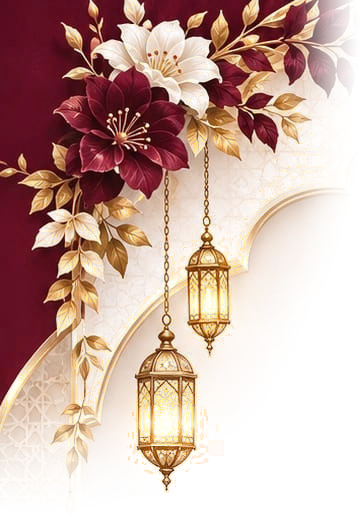
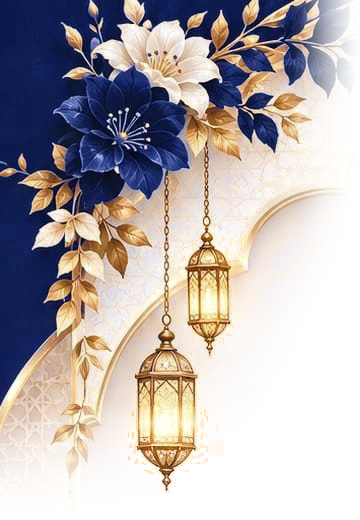
Groom side: royal velvet blue theme, remove Haldi and closing mosque

Changed region(s): [[0.0, 0.0, 0.9472, 0.7692], [0.2139, 0.5846, 0.2444, 0.6154]]

diff --git a/mehtab/css/style.css b/mehtab/css/style.css
@@ -5,11 +5,11 @@
   --paper: #fdf3e7;
   --paper-2: #f7e9d6;
   --paper-3: #efdcc2;
-  --maroon: #7b1a2c;
-  --maroon-2: #5e1122;
-  --maroon-3: #460a18;
-  --ink: #4a2c22;
-  --ink-2: #6e4b3b;
+  --royal: #1f2f7a;
+  --royal-2: #172463;
+  --royal-3: #0f1a4a;
+  --ink: #262c4d;
+  --ink-2: #4c5374;
   --gold: #b98d45;
   --gold-d: #8f6a2e;
   --gold-l: #ead39c;
@@ -40,8 +40,8 @@ button { font: inherit; }
 .opener {
   position: fixed; inset: 0; z-index: 60; overflow: hidden;
   background:
-    radial-gradient(70% 45% at 50% 46%, rgba(180, 60, 80, .35), transparent 70%),
-    radial-gradient(130% 90% at 50% 40%, #7a1a2c, #520e1d 55%, #2e0610);
+    radial-gradient(70% 45% at 50% 46%, rgba(70, 100, 200, .35), transparent 70%),
+    radial-gradient(130% 90% at 50% 40%, #1e2e78, #131f58 55%, #080f33);
   color: var(--cream);
   transition: opacity .9s ease .1s;
 }
@@ -100,13 +100,13 @@ button { font: inherit; }
 .scroll__border { position: absolute; inset: 16px 14px; border: 1px solid rgba(185, 141, 69, .55); outline: 1px solid rgba(185, 141, 69, .3); outline-offset: 4px; }
 .scroll__ribbon {
   position: absolute; z-index: 3; left: 50%; top: -4px; width: 30px; height: 80px; transform: translateX(-50%);
-  background: linear-gradient(90deg, #5a0f1f, #9a2a40 40%, #b2374f 55%, #6e1426);
+  background: linear-gradient(90deg, #14225c, #2d44a0 40%, #4560c0 55%, #1b2b70);
   box-shadow: 0 2px 6px rgba(0, 0, 0, .35);
   transition: transform .6s ease, opacity .5s ease;
 }
 .scroll__ribbon::before, .scroll__ribbon::after {
   content: ""; position: absolute; top: 74px; width: 16px; height: 46px;
-  background: linear-gradient(180deg, #8c2338, #5a0f1f);
+  background: linear-gradient(180deg, #2a3f96, #14225c);
   clip-path: polygon(0 0, 100% 0, 100% 100%, 50% 84%, 0 100%);
 }
 .scroll__ribbon::before { left: -6px; transform: rotate(14deg); transform-origin: top; }
@@ -116,8 +116,8 @@ button { font: inherit; }
   position: absolute; z-index: 4; left: 50%; top: 50%; width: 96px; height: 96px; padding: 0;
   transform: translate(-50%, -50%);
   border: 0; border-radius: 50%; cursor: pointer;
-  background: radial-gradient(circle at 34% 28%, #a93349, #721628 58%, #4a0a17);
-  box-shadow: 0 8px 18px rgba(0, 0, 0, .45), inset 0 0 0 3px rgba(233, 207, 147, .55), inset 0 0 0 7px #6a1426, inset 0 0 0 8px rgba(233, 207, 147, .35), inset 0 -6px 14px rgba(0, 0, 0, .35);
+  background: radial-gradient(circle at 34% 28%, #3a52b0, #1c2c72 58%, #0e184a);
+  box-shadow: 0 8px 18px rgba(0, 0, 0, .45), inset 0 0 0 3px rgba(233, 207, 147, .55), inset 0 0 0 7px #1a2a6e, inset 0 0 0 8px rgba(233, 207, 147, .35), inset 0 -6px 14px rgba(0, 0, 0, .35);
   transition: transform .6s cubic-bezier(.3, 1.4, .5, 1), opacity .5s ease;
   -webkit-tap-highlight-color: transparent;
 }
@@ -157,7 +157,7 @@ main {
 .page-rod::before, .page-rod::after { content: ""; position: absolute; top: 50%; width: 12px; height: 18px; border-radius: 50%; transform: translateY(-50%); background: radial-gradient(circle at 40% 35%, #fbe8b8, #c99a4a 55%, #7a5520); }
 .page-rod::before { left: -6px; } .page-rod::after { right: -6px; }
 @media (min-width: 600px) {
-  body { background: radial-gradient(120% 80% at 50% 0%, #6a1426, #3a0812 70%); }
+  body { background: radial-gradient(120% 80% at 50% 0%, #1a2a6e, #0a1236 70%); }
   main { box-shadow: 0 0 0 1px rgba(233, 207, 147, .25), 0 30px 80px rgba(0, 0, 0, .5); }
 }
 
@@ -171,7 +171,7 @@ main {
 
 /* ---------- headings ---------- */
 .kicker { margin: 0 0 8px; font-family: var(--ff-caps); font-size: 11.5px; letter-spacing: .32em; text-transform: uppercase; color: var(--gold-d); }
-.sec__title { margin: 0; font-weight: 600; font-size: 30px; line-height: 1.2; color: var(--maroon); }
+.sec__title { margin: 0; font-weight: 600; font-size: 30px; line-height: 1.2; color: var(--royal); }
 .divider { display: block; width: 210px; height: 22px; margin: 14px auto; }
 
 /* =========================================================
@@ -194,13 +194,13 @@ main {
 }
 .hero__title { margin: 4px 0 0; font-weight: 400; }
 .hero__title .script {
-  display: block; font-family: 'Alex Brush', var(--ff-script); font-size: clamp(66px, 20vw, 96px); line-height: 1; color: var(--maroon);
+  display: block; font-family: 'Alex Brush', var(--ff-script); font-size: clamp(66px, 20vw, 96px); line-height: 1; color: var(--royal);
   padding-top: .16em; margin-top: -.1em;
   text-shadow: 0 2px 0 rgba(255, 255, 255, .6);
 }
 .hero__caps { display: block; margin-top: 2px; font-family: var(--ff-caps); font-size: 15px; letter-spacing: .46em; padding-left: .46em; color: var(--ink-2); }
 .names { margin-top: 6px; }
-.nm { margin: 0; font-weight: 600; font-size: clamp(40px, 11.6vw, 54px); line-height: 1.08; color: var(--maroon); letter-spacing: .005em; }
+.nm { margin: 0; font-weight: 600; font-size: clamp(40px, 11.6vw, 54px); line-height: 1.08; color: var(--royal); letter-spacing: .005em; }
 .par { margin: 4px 0 0; font-family: var(--ff-caps); font-size: 11px; letter-spacing: .12em; text-transform: uppercase; color: var(--ink-2); }
 .amp { display: flex; align-items: center; justify-content: center; gap: 14px; margin: 14px auto 10px; max-width: 280px; }
 .amp::before, .amp::after { content: ""; flex: 1; height: 1px; background: linear-gradient(90deg, transparent, var(--gold)); }
@@ -208,7 +208,7 @@ main {
 .amp span {
   display: grid; place-items: center; width: 40px; height: 40px; flex: none;
   border: 1.2px solid var(--gold); transform: rotate(45deg); border-radius: 6px;
-  position: relative; font-size: 0; color: var(--maroon);
+  position: relative; font-size: 0; color: var(--royal);
 }
 .amp span::after { content: "&"; position: absolute; inset: 0; display: grid; place-items: center; transform: rotate(-45deg); font-family: var(--ff-serif); font-style: italic; font-weight: 500; font-size: 27px; line-height: 1; }
 
@@ -220,10 +220,10 @@ main {
 .date { position: relative; flex: 1 1 0; max-width: 140px; padding: 0 6px; }
 .date + .date { border-left: 1px solid rgba(185, 141, 69, .4); }
 .date svg { width: 30px; height: 30px; color: var(--gold); display: block; margin: 0 auto 4px; }
-.date__d { position: relative; display: inline-block; font-weight: 700; font-size: 32px; line-height: 1; color: var(--maroon); }
+.date__d { position: relative; display: inline-block; font-weight: 700; font-size: 32px; line-height: 1; color: var(--royal); }
 .date__m { display: block; margin-top: 4px; font-family: var(--ff-caps); font-size: 10px; letter-spacing: .14em; text-transform: uppercase; color: var(--ink-2); }
-.date__n { display: block; margin-top: 4px; font-family: var(--ff-caps); font-weight: 600; font-size: 11.5px; letter-spacing: .16em; text-transform: uppercase; color: var(--maroon); }
-.date__d { background: linear-gradient(120deg, #7b1a2c 30%, #b4485c 50%, #7b1a2c 70%); background-size: 250% 100%; -webkit-background-clip: text; background-clip: text; color: transparent; animation: shimmer 4s ease-in-out infinite; }
+.date__n { display: block; margin-top: 4px; font-family: var(--ff-caps); font-weight: 600; font-size: 11.5px; letter-spacing: .16em; text-transform: uppercase; color: var(--royal); }
+.date__d { background: linear-gradient(120deg, #1f2f7a 30%, #4a64c4 50%, #1f2f7a 70%); background-size: 250% 100%; -webkit-background-clip: text; background-clip: text; color: transparent; animation: shimmer 4s ease-in-out infinite; }
 @keyframes shimmer { 0%, 100% { background-position: 100% 0; } 50% { background-position: 0 0; } }
 .sparkle {
   position: absolute; width: 11px; height: 11px; pointer-events: none;
@@ -246,7 +246,7 @@ main {
   position: relative; padding: 42px 24px 34px; border-radius: 4px;
   background: linear-gradient(180deg, #fffaf3, #f8ecda);
   border: 1px solid rgba(185, 141, 69, .5);
-  box-shadow: inset 0 0 0 7px #fffaf3, inset 0 0 0 8px rgba(185, 141, 69, .3), 0 14px 30px -20px rgba(90, 40, 20, .5);
+  box-shadow: inset 0 0 0 7px #fffaf3, inset 0 0 0 8px rgba(185, 141, 69, .3), 0 14px 30px -20px rgba(30, 40, 90, .5);
 }
 .vc { position: absolute; width: 44px; height: 44px; }
 .vc--tl { top: 12px; left: 12px; }
@@ -256,7 +256,7 @@ main {
 .verse__text { margin: 10px 0 16px; font-style: italic; font-size: 21px; line-height: 1.55; color: var(--ink); }
 .verse__text .w { display: inline-block; opacity: 0; transform: translateY(6px); filter: blur(3px); transition: opacity .6s ease, transform .6s ease, filter .6s ease; transition-delay: calc(var(--i) * 55ms + 300ms); }
 .verse__text.is-in .w { opacity: 1; transform: none; filter: none; }
-.verse__ref { margin: 0; font-family: var(--ff-caps); font-size: 12px; letter-spacing: .22em; color: var(--maroon); }
+.verse__ref { margin: 0; font-family: var(--ff-caps); font-size: 12px; letter-spacing: .22em; color: var(--royal); }
 
 /* countdown */
 .arches { display: flex; justify-content: center; gap: 10px; margin-top: 24px; }
@@ -266,24 +266,24 @@ main {
   border-radius: 37px 37px 10px 10px / 34px 34px 10px 10px;
   background: linear-gradient(180deg, #fffaf1, #f4e3ca);
   border: 1px solid rgba(185, 141, 69, .65);
-  box-shadow: inset 0 0 0 4px #fffaf1, inset 0 0 0 5px rgba(185, 141, 69, .3), 0 10px 20px -14px rgba(90, 40, 20, .6);
+  box-shadow: inset 0 0 0 4px #fffaf1, inset 0 0 0 5px rgba(185, 141, 69, .3), 0 10px 20px -14px rgba(30, 40, 90, .6);
 }
-.arch__n { font-weight: 700; font-size: 33px; line-height: 1; color: var(--maroon); font-variant-numeric: tabular-nums; }
+.arch__n { font-weight: 700; font-size: 33px; line-height: 1; color: var(--royal); font-variant-numeric: tabular-nums; }
 .arch__n.tick { animation: tick .5s ease; }
 @keyframes tick { 0% { transform: translateY(-5px); opacity: .3; } 100% { transform: none; opacity: 1; } }
 .arch__l { margin-top: 6px; font-family: var(--ff-caps); font-size: 9.5px; letter-spacing: .16em; text-transform: uppercase; color: var(--ink-2); }
 .cd__msg { margin: 18px 0 0; font-style: italic; font-size: 18.5px; color: var(--ink-2); }
 
 /* functions */
-.events__title { margin: 0; font-size: 64px; line-height: 1.05; color: var(--maroon); padding-top: .12em; }
+.events__title { margin: 0; font-size: 64px; line-height: 1.05; color: var(--royal); padding-top: .12em; }
 .events__list { display: grid; gap: 58px; margin-top: 54px; }
 .ev {
   position: relative; padding: 52px 20px 26px; color: #f8ead4;
   border-radius: 50% 50% 18px 18px / 70px 70px 18px 18px;
   background:
-    radial-gradient(100% 50% at 50% 0%, rgba(190, 70, 90, .35), transparent 70%),
-    linear-gradient(180deg, #841f33, #6a1426 50%, #4e0c1b);
-  box-shadow: 0 22px 40px -24px rgba(60, 10, 20, .8), inset 0 0 0 1px rgba(233, 207, 147, .6);
+    radial-gradient(100% 50% at 50% 0%, rgba(80, 110, 210, .35), transparent 70%),
+    linear-gradient(180deg, #24378a, #1a2a6e 50%, #111d52);
+  box-shadow: 0 22px 40px -24px rgba(10, 18, 60, .8), inset 0 0 0 1px rgba(233, 207, 147, .6);
 }
 .ev::before {
   content: ""; position: absolute; inset: 8px; pointer-events: none;
@@ -294,8 +294,8 @@ main {
   position: absolute; left: 50%; top: -32px; transform: translateX(-50%);
   display: grid; place-items: center; width: 64px; height: 64px; border-radius: 50%;
   background: radial-gradient(circle at 35% 30%, #fffaf0, #f1dfc0);
-  border: 1.5px solid #c9a35c; color: var(--maroon);
-  box-shadow: 0 0 0 5px var(--paper), 0 8px 16px -6px rgba(60, 10, 20, .6);
+  border: 1.5px solid #c9a35c; color: var(--royal);
+  box-shadow: 0 0 0 5px var(--paper), 0 8px 16px -6px rgba(10, 18, 60, .6);
 }
 .ev__medal svg { width: 38px; height: 38px; }
 .ev__date { margin: 0; font-family: var(--ff-caps); font-size: 11.5px; letter-spacing: .2em; text-transform: uppercase; color: var(--gold-l); }
@@ -324,20 +324,19 @@ main {
 }
 .btn:active { transform: scale(.96); }
 .btn svg { width: 17px; height: 17px; }
-.btn--gold { color: var(--maroon-3); background: linear-gradient(120deg, #c99d52, #f1dca7 50%, #c99d52); box-shadow: 0 6px 18px -8px rgba(233, 207, 147, .6); }
+.btn--gold { color: var(--royal-3); background: linear-gradient(120deg, #c99d52, #f1dca7 50%, #c99d52); box-shadow: 0 6px 18px -8px rgba(233, 207, 147, .6); }
 .btn--ghost { color: #f3dfb4; border-color: rgba(233, 207, 147, .55); background: transparent; }
-.btn--maroon { color: #f8ead4; background: linear-gradient(120deg, #6a1426, #8c2338 50%, #6a1426); box-shadow: 0 8px 20px -10px rgba(90, 16, 32, .7); }
+.btn--royal { color: #f8ead4; background: linear-gradient(120deg, #1a2a6e, #2a3f96 50%, #1a2a6e); box-shadow: 0 8px 20px -10px rgba(16, 28, 90, .7); }
 .btn:focus-visible { outline: 2px solid var(--gold); outline-offset: 3px; }
 
 /* closing */
 .closing { padding-bottom: 0; }
 .closing__lead { margin: 0 auto 18px; max-width: 320px; font-style: italic; font-size: 22px; line-height: 1.4; color: var(--ink); }
-.closing__family { margin: 0; font-size: 68px; line-height: 1.05; color: var(--maroon); padding-top: .14em; }
+.closing__family { margin: 0; font-size: 68px; line-height: 1.05; color: var(--royal); padding-top: .14em; }
 .closing__names { margin: 10px 0 0; font-weight: 600; font-size: clamp(17px, calc((100vw - 40px) / 17), 23px); line-height: 1.6; color: var(--ink); }
 .closing__names .ln { display: block; width: max-content; max-width: none; margin: 0 auto; white-space: nowrap; }
 .closing__wish { margin: 0 0 18px; font-style: italic; font-size: 19px; color: var(--ink-2); }
-.closing__mosque { display: block; width: 100%; height: auto; margin-top: 26px; }
-.page-rod--end { margin-top: -4px; }
+.page-rod--end { margin-top: 44px; }
 .foot { padding: 16px 0 calc(28px + env(safe-area-inset-bottom)); font-family: var(--ff-caps); font-size: 11px; letter-spacing: .3em; text-transform: uppercase; color: var(--gold-d); }
 .foot span { font-family: var(--ff-script); font-size: 18px; letter-spacing: 0; text-transform: none; }
 
@@ -347,7 +346,7 @@ main {
 .petals { position: fixed; inset: 0; z-index: 40; pointer-events: none; overflow: hidden; }
 .petal {
   position: absolute; top: -30px; width: var(--s, 12px); height: calc(var(--s, 12px) * 1.25);
-  border-radius: 80% 0 80% 0; background: var(--c, #9a2a40); opacity: .75;
+  border-radius: 80% 0 80% 0; background: var(--c, #2d44a0); opacity: .75;
   animation: fall var(--dur, 12s) linear var(--delay, 0s) infinite;
 }
 @keyframes fall {
@@ -362,9 +361,9 @@ main {
 .dock {
   position: fixed; z-index: 45; left: 50%; bottom: calc(12px + env(safe-area-inset-bottom));
   display: none; gap: 2px; padding: 6px; border-radius: 999px;
-  background: rgba(78, 12, 27, .9); border: 1px solid rgba(233, 207, 147, .45);
+  background: rgba(17, 29, 82, .9); border: 1px solid rgba(233, 207, 147, .45);
   -webkit-backdrop-filter: blur(10px); backdrop-filter: blur(10px);
-  box-shadow: 0 12px 30px -10px rgba(40, 6, 14, .6);
+  box-shadow: 0 12px 30px -10px rgba(6, 10, 40, .6);
   opacity: 0; transform: translate(-50%, 30px); transition: opacity .4s ease, transform .4s ease;
 }
 @media (max-width: 760px) { .dock { display: flex; } }
@@ -380,7 +379,7 @@ main {
 .dock__btn:active { background: rgba(233, 207, 147, .16); }
 .toast {
   position: fixed; z-index: 70; left: 50%; bottom: calc(24px + env(safe-area-inset-bottom)); transform: translate(-50%, 20px);
-  padding: 9px 18px; border-radius: 999px; background: var(--maroon-2); color: #f8ead4;
+  padding: 9px 18px; border-radius: 999px; background: var(--royal-2); color: #f8ead4;
   font-family: var(--ff-caps); font-size: 12px; letter-spacing: .08em; opacity: 0; pointer-events: none; transition: opacity .3s, transform .3s;
 }
 .toast.is-on { opacity: 1; transform: translate(-50%, 0); }

diff --git a/mehtab/make-link.html b/mehtab/make-link.html
@@ -8,7 +8,7 @@
   <link rel="icon" href="../assets/img/favicon.png">
   <link href="https://fonts.googleapis.com/css2?family=Cinzel:wght@400;500&family=Cormorant+Garamond:ital,wght@0,400;0,600;1,400&family=Pinyon+Script&display=swap" rel="stylesheet">
   <style>
-    :root { --wine: #4e0c1b; --wine2: #6a1426; --gold: #b98d45; --gold2: #7b1a2c; --ivory: #4a2c22; --muted: #8a6a58; }
+    :root { --wine: #111d52; --wine2: #1a2a6e; --gold: #b98d45; --gold2: #1f2f7a; --ivory: #262c4d; --muted: #8a6a58; }
     * { box-sizing: border-box; }
     body {
       margin: 0; min-height: 100vh; padding: 32px 16px 60px;
@@ -18,7 +18,7 @@
     main { max-width: 560px; margin: 0 auto; }
     h1 { font-family: 'Pinyon Script', cursive; font-weight: 400; font-size: 54px; text-align: center; margin: 0; color: var(--gold2); }
     .sub { text-align: center; color: var(--muted); font-style: italic; margin: 0 0 28px; }
-    .card { border: 1px solid rgba(200, 167, 108, .35); border-radius: 16px; padding: 22px; background: #fffaf3; box-shadow: 0 14px 30px -20px rgba(90, 40, 20, .5); }
+    .card { border: 1px solid rgba(200, 167, 108, .35); border-radius: 16px; padding: 22px; background: #fffaf3; box-shadow: 0 14px 30px -20px rgba(30, 40, 90, .5); }
     label { display: block; font-family: Cinzel, serif; font-size: 12px; letter-spacing: .2em; text-transform: uppercase; color: var(--gold); margin: 18px 0 8px; }
     label:first-child { margin-top: 0; }
     input[type=text], textarea {
@@ -34,7 +34,7 @@
       display: block; text-align: center; padding: 12px 8px; border-radius: 10px; cursor: pointer;
       border: 1px solid rgba(200, 167, 108, .4); font-family: Cinzel, serif; font-size: 13px; letter-spacing: .08em;
     }
-    .seg input:checked + span { background: linear-gradient(120deg, #6a1426, #8c2338 50%, #6a1426); color: #f8ead4; border-color: transparent; }
+    .seg input:checked + span { background: linear-gradient(120deg, #1a2a6e, #2a3f96 50%, #1a2a6e); color: #f8ead4; border-color: transparent; }
     .seg input:focus-visible + span { outline: 2px solid var(--gold2); outline-offset: 2px; }
     .out { word-break: break-all; padding: 12px 14px; border-radius: 10px; background: #fff; border: 1px dashed rgba(200, 167, 108, .45); font-family: ui-monospace, Menlo, monospace; font-size: 14px; color: var(--gold2); }
     .row { display: flex; flex-wrap: wrap; gap: 10px; margin-top: 16px; }
@@ -43,7 +43,7 @@
       border-radius: 999px; border: 1px solid rgba(200, 167, 108, .55); background: transparent;
       color: var(--gold2); font-family: Cinzel, serif; font-size: 12.5px; letter-spacing: .12em; text-transform: uppercase; cursor: pointer; text-decoration: none;
     }
-    .primary { background: linear-gradient(120deg, #6a1426, #8c2338 50%, #6a1426); color: #f8ead4; border-color: transparent; }
+    .primary { background: linear-gradient(120deg, #1a2a6e, #2a3f96 50%, #1a2a6e); color: #f8ead4; border-color: transparent; }
     .note { color: var(--muted); font-size: 16px; font-style: italic; margin-top: 10px; }
     .toast { position: fixed; left: 50%; bottom: 24px; transform: translateX(-50%); background: var(--wine); color: #f8ead4; padding: 8px 18px; border-radius: 999px; font-family: Cinzel, serif; font-size: 12px; opacity: 0; transition: opacity .3s; }
     .toast.on { opacity: 1; }
@@ -60,8 +60,8 @@
 
     <label>Which invitation?</label>
     <div class="seg" role="radiogroup">
-      <label style="margin:0"><input type="radio" name="v" value="haldi" checked><span>Haldi + Reception</span></label>
-      <label style="margin:0"><input type="radio" name="v" value="baraat"><span>Baraat + Haldi + Reception</span></label>
+      <label style="margin:0"><input type="radio" name="v" value="reception" checked><span>Reception</span></label>
+      <label style="margin:0"><input type="radio" name="v" value="baraat"><span>Baraat + Reception</span></label>
     </div>
 
     <label>Link</label>
@@ -94,7 +94,7 @@
   function defaultMsg(url) {
     const n = $('name').value.trim();
     const baraat = document.querySelector('input[name=v]:checked').value === 'baraat';
-    return `Assalamu Alaikum${n ? ' ' + n : ''}!\n\nWith the blessings of Allah (SWT), the Khan Family warmly invites you to the wedding celebrations of Mehtab Khan & Nahid:\n\n• Haldi — Thursday, 31st December 2026${baraat ? '\n• Baraat — Saturday, 2nd January 2027, 7:00 PM' : ''}\n• Reception — Wednesday, 6th January 2027\n\nPlease open your invitation:\n${url}\n\n— Khan Family`;
+    return `Assalamu Alaikum${n ? ' ' + n : ''}!\n\nWith the blessings of Allah (SWT), the Khan Family warmly invites you to the wedding celebrations of Mehtab Khan & Nahid:\n\n${baraat ? '• Baraat — Saturday, 2nd January 2027, 7:00 PM\n' : ''}• Reception — Wednesday, 6th January 2027\n\nPlease open your invitation:\n${url}\n\n— Khan Family`;
   }
   function update() {
     const url = link();

diff --git a/mehtab/index.html b/mehtab/index.html
@@ -5,7 +5,7 @@
   <meta name="viewport" content="width=device-width, initial-scale=1, viewport-fit=cover">
   <title>Mehtab &amp; Nahid · Wedding Invitation</title>
   <meta name="description" content="With the blessings of Allah (SWT), the Khan Family invites you to the wedding celebrations of Mehtab Khan & Nahid.">
-  <meta name="theme-color" content="#5a1020">
+  <meta name="theme-color" content="#14225c">
 
   <!-- Link preview (WhatsApp / social) -->
   <meta property="og:type" content="website">
@@ -63,10 +63,6 @@
     <symbol id="i-pin" viewBox="0 0 24 24"><path fill="none" stroke="currentColor" stroke-width="1.5" d="M12 21s-7-6.2-7-11.5a7 7 0 0 1 14 0C19 14.8 12 21 12 21z"/><circle cx="12" cy="9.5" r="2.4" fill="none" stroke="currentColor" stroke-width="1.5"/></symbol>
     <symbol id="i-share" viewBox="0 0 24 24"><g fill="none" stroke="currentColor" stroke-width="1.6" stroke-linecap="round"><circle cx="18" cy="5.5" r="2.5"/><circle cx="6" cy="12" r="2.5"/><circle cx="18" cy="18.5" r="2.5"/><path d="M8.3 10.8l7.4-4M8.3 13.2l7.4 4"/></g></symbol>
     <!-- function icons -->
-    <symbol id="i-haldi" viewBox="0 0 48 48"><g fill="none" stroke="currentColor" stroke-width="1.6" stroke-linecap="round" stroke-linejoin="round">
-      <path d="M8 26h32c0 8-7 14-16 14S8 34 8 26z"/><path d="M14 40h20"/>
-      <path d="M24 22c-3-2-3-6 0-8 3 2 3 6 0 8zM24 22c-1-4 2-7 6-7 0 4-3 7-6 7zM24 22c1-4-2-7-6-7 0 4 3 7 6 7z"/>
-      <circle cx="24" cy="10" r="1.2"/><path d="M12 26c1-2 3-3 5-3M36 26c-1-2-3-3-5-3"/></g></symbol>
     <symbol id="i-baraat" viewBox="0 0 48 48"><g fill="none" stroke="currentColor" stroke-width="1.6" stroke-linecap="round" stroke-linejoin="round">
       <path d="M10 40V26h28v14M6 40h36"/><path d="M12 26c0-8 5-13 12-15 7 2 12 7 12 15"/>
       <path d="M24 11V6"/><path d="M26.5 4.2a2.6 2.6 0 1 0 0 3.6 2 2 0 1 1 0-3.6z"/>
@@ -150,7 +146,7 @@
     <!-- ===== Countdown ===== -->
     <section class="sec countdown" id="countdown" data-stop="6.5">
       <p class="kicker" data-reveal="up">Counting the moments</p>
-      <h2 class="sec__title" data-reveal="up">Until the <span id="cdName">Haldi</span></h2>
+      <h2 class="sec__title" data-reveal="up">Until the <span id="cdName">Reception</span></h2>
       <div class="arches" id="arches" data-reveal="up"></div>
       <p class="cd__msg" id="cdMsg" data-reveal="up"></p>
     </section>
@@ -174,8 +170,7 @@
       </p>
       <svg class="divider" data-reveal="draw"><use href="#i-divider"/></svg>
       <p class="closing__wish" data-reveal="up">We look forward to celebrating with you</p>
-      <button class="btn btn--maroon" type="button" data-share data-reveal="up"><svg><use href="#i-share"/></svg>Share Invitation</button>
-      <img class="closing__mosque" src="assets/img/mosque.webp" alt="" aria-hidden="true" loading="lazy" width="552" height="184">
+      <button class="btn btn--royal" type="button" data-share data-reveal="up"><svg><use href="#i-share"/></svg>Share Invitation</button>
       <div class="page-rod page-rod--end" aria-hidden="true"><i></i></div>
       <footer class="foot">Mehtab <span>&amp;</span> Nahid · 2027</footer>
     </section>

diff --git a/mehtab/js/main.js b/mehtab/js/main.js
@@ -19,12 +19,6 @@
      `only: 'baraat'` = shown only on the Baraat link (…/mehtab/?baraat)        */
   const EVENTS = [
     {
-      key: 'haldi', name: 'Haldi', icon: 'i-haldi',
-      date: '2026-12-31', time: '', hours: 4,
-      tag: 'A golden splash of turmeric, laughter & love',
-      venue: '', address: '', maps: '',
-    },
-    {
       key: 'baraat', name: 'Baraat', icon: 'i-baraat', only: 'baraat',
       date: '2027-01-02', time: '19:00', hours: 4,
       tag: 'The groom sets out to bring home his bride',
@@ -184,7 +178,7 @@
   function startPetals() {
     if (reduceMotion) return;
     const box = $('#petals');
-    const colors = ['#9a2a40', '#b8485c', '#e7b3ad', '#d9b56c', '#7b1a2c'];
+    const colors = ['#2d44a0', '#5a74cc', '#c9d3f0', '#d9b56c', '#1f2f7a'];
     const n = innerWidth < 600 ? 12 : 18;
     for (let i = 0; i < n; i++) {
       const p = document.createElement('i');
